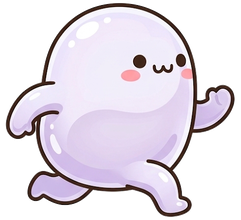
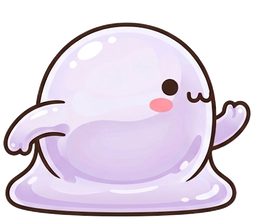
ヒトガタ第2段階の走る絵を足なし・眉なしに描き直し、弾んで進むように

diff --git a/index.html b/index.html
@@ -3121,7 +3121,7 @@ function runFrame(P){
   if(key === "slime_hard_5" && !ready(IMG.run_slime_hard_5_0)) key = "slime_5";
   const fr = [0, 1, 2, 3].map(k => IMG[`run_${key}_${k}`]);
   if(!fr.every(ready)) return null;
-  const blob = pet.stage === 1 || pet.line === "slime" || pet.line === "slime_hard";
+  const blob = pet.stage === 1 || pet.line === "slime" || pet.line === "slime_hard" || key === "human_2";   // ヒトガタ第2段階は足がないので弾んで進む
   if(!P.onGround){
     const f = blob ? (P.vy < 0 ? fr[1] : fr[2]) : fr[1];
     f._blobLift = 0;
